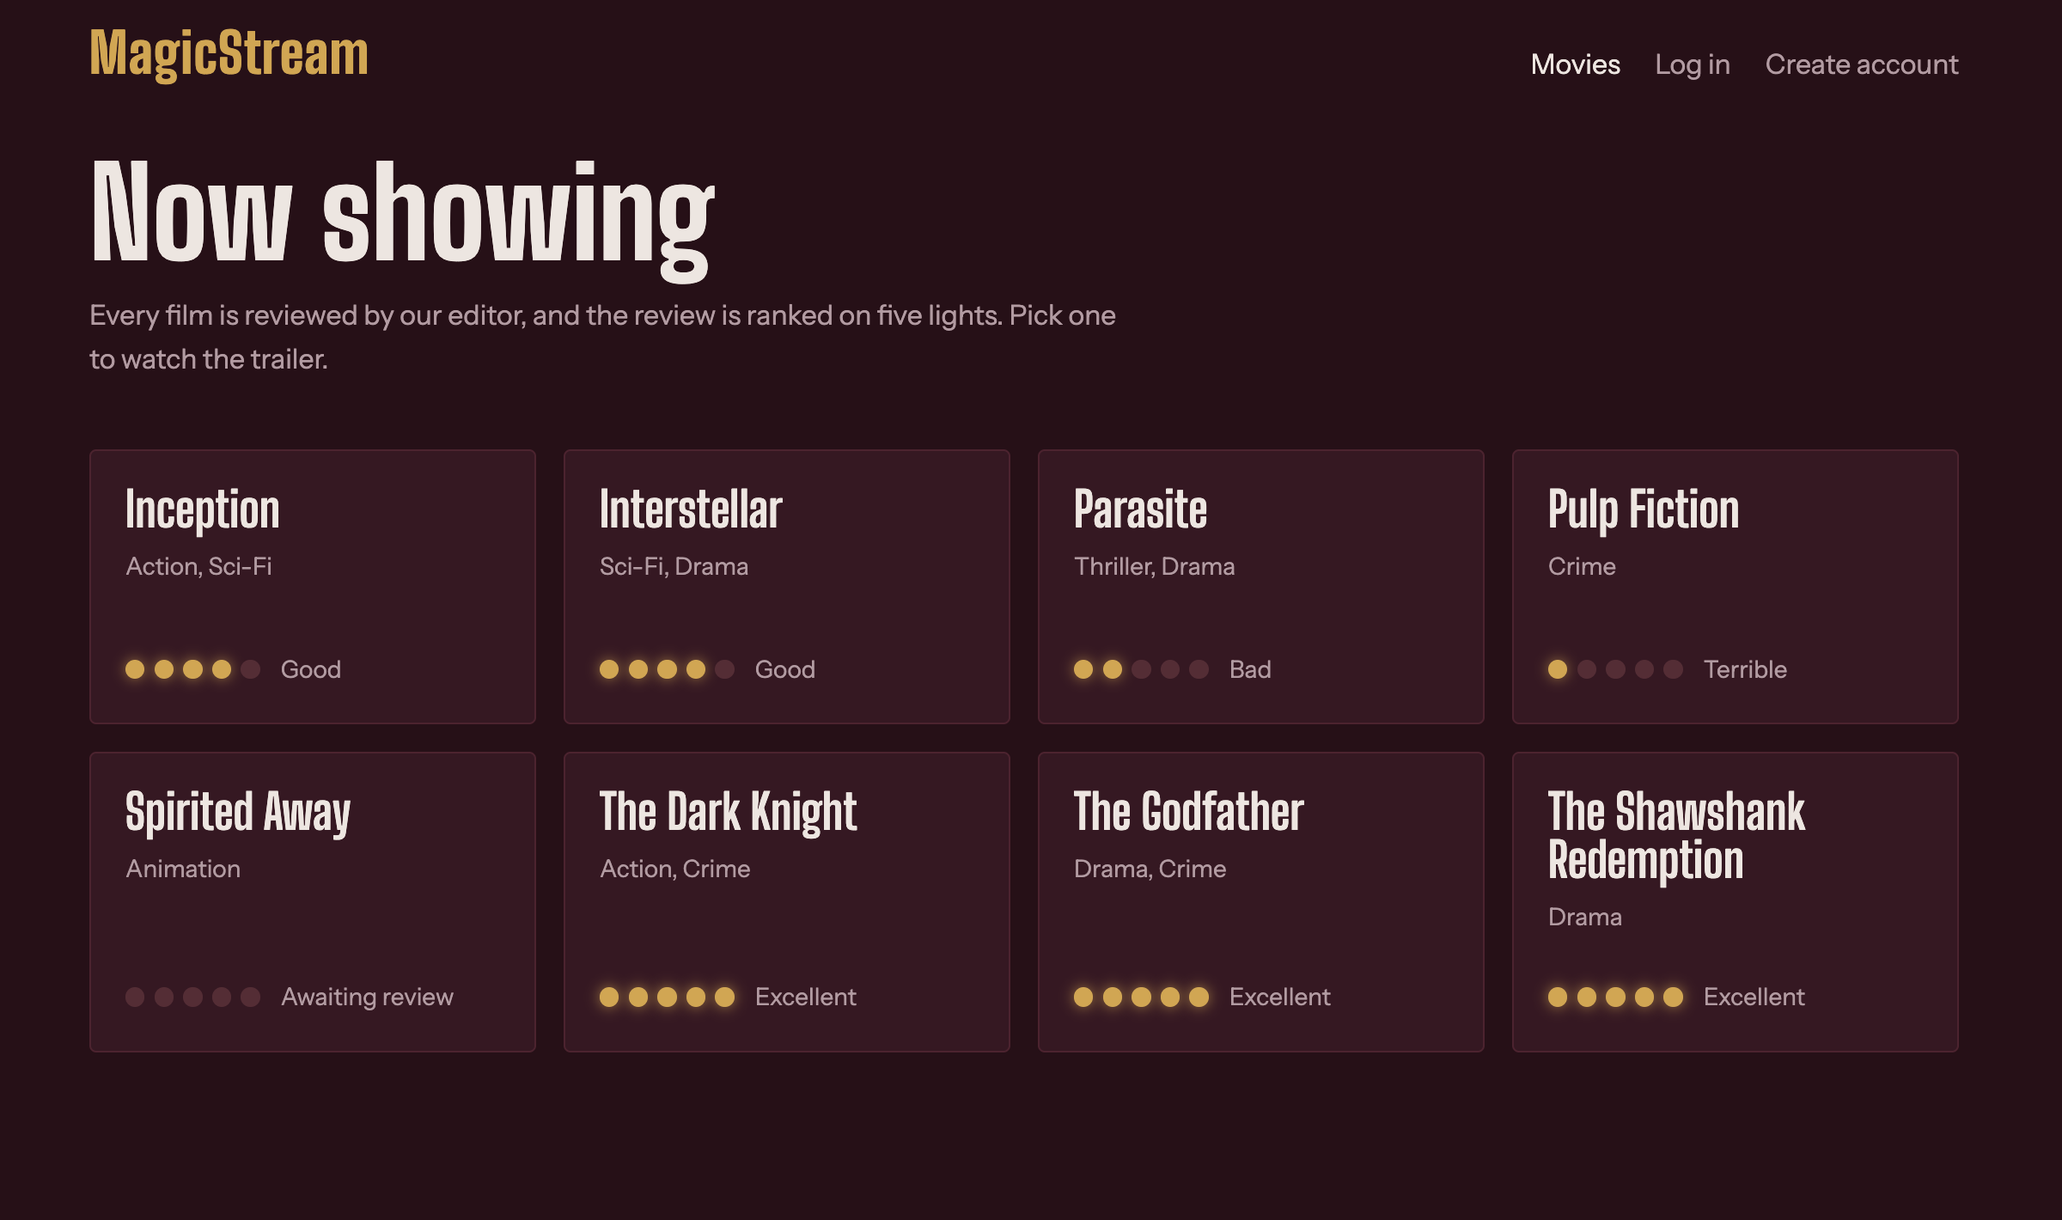
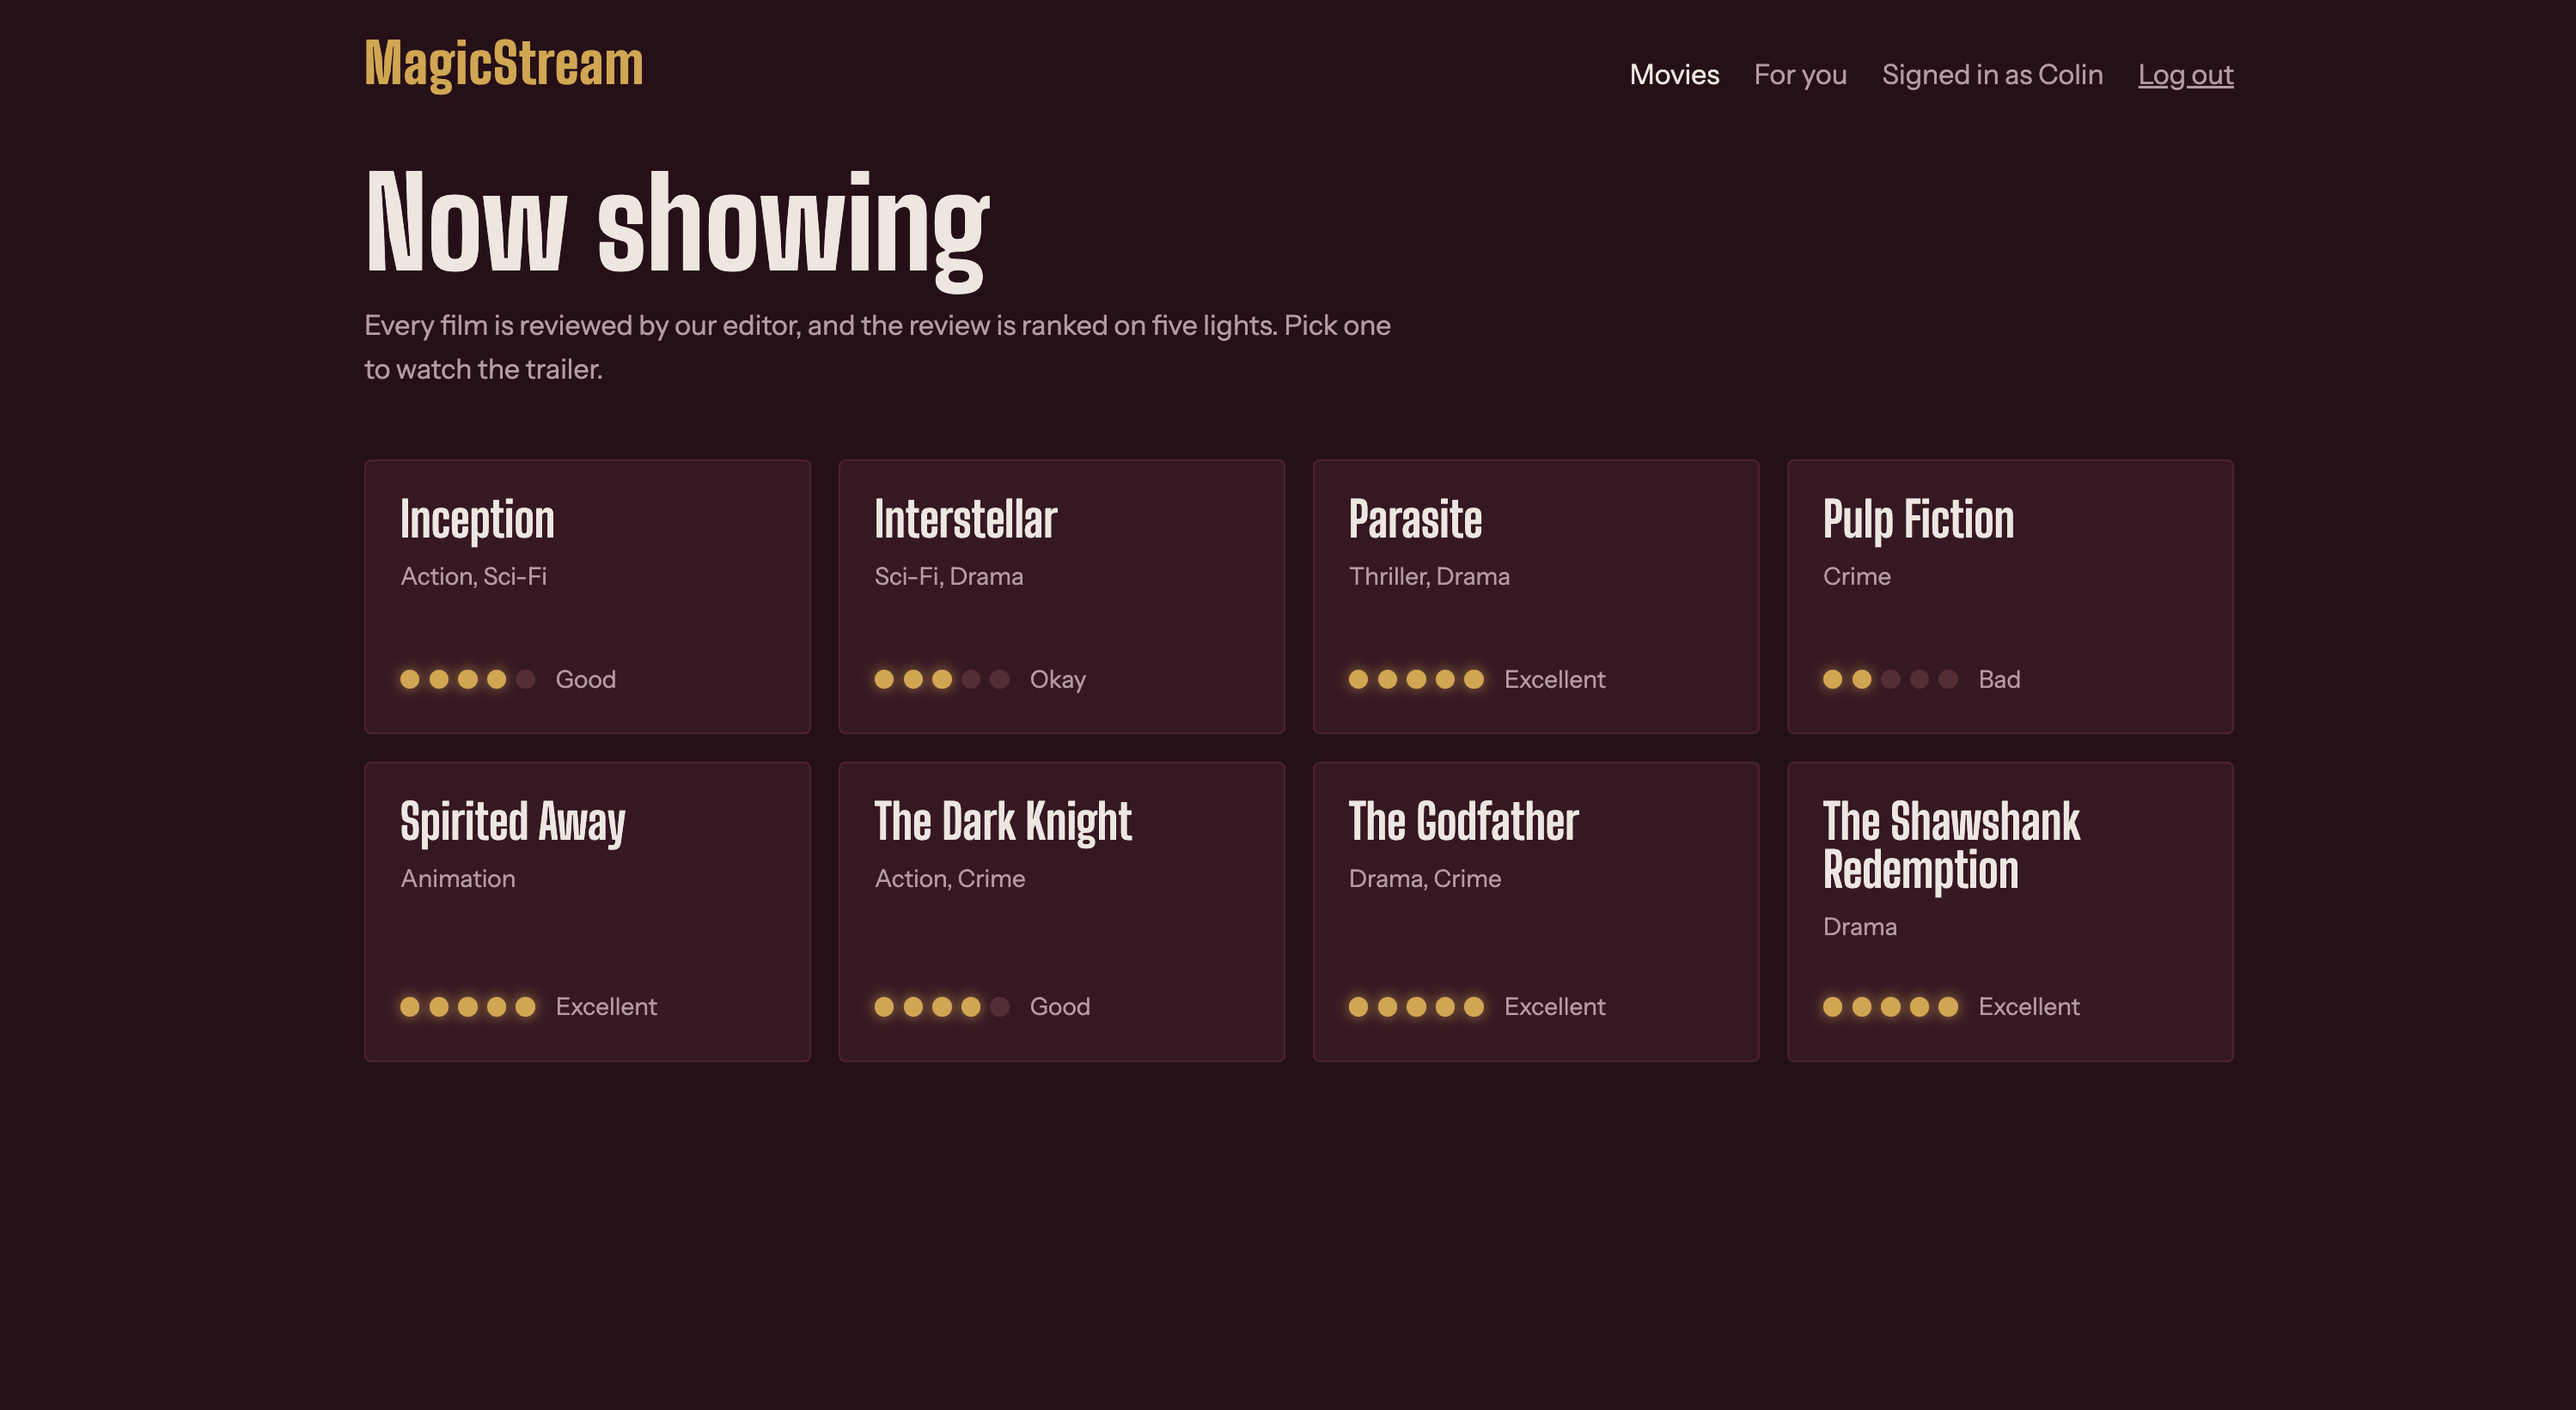
Phase 6e: production verification, deployment docs, live screenshot

diff --git a/README.md b/README.md
@@ -4,7 +4,9 @@ A full-stack movie streaming app with AI-ranked reviews and personalized recomme
 
 **Stack:** Go (Gin) · MongoDB · React · OpenAI-compatible LLM (Groq free tier) · Docker Compose
 
-> **Status:** 🚧 Feature-complete locally; deployment next. The backend is complete and tested: data layer, full authentication (registration, JWT sessions with rotation and revocation, role-based access), LLM-ranked reviews verified across two providers, and personalized recommendations backed by a verified index. The React client covers browsing, trailers, sign-in, silent session refresh, a protected recommendations page, and an admin review editor that ranks reviews with the LLM. See the [Build log](#build-log) for what's done and the [Roadmap](#roadmap) for what's next.
+**Live demo:** [magicstream-eight.vercel.app](https://magicstream-eight.vercel.app) — the API runs on a free tier that sleeps when idle, so the first load can take about a minute.
+
+> **Status:** ✅ Complete and deployed. The backend is complete and tested: data layer, full authentication (registration, JWT sessions with rotation and revocation, role-based access), LLM-ranked reviews verified across two providers, and personalized recommendations backed by a verified index. The React client covers browsing, trailers, sign-in, silent session refresh, a protected recommendations page, and an admin review editor that ranks reviews with the LLM. The app runs in production on Vercel, Render, and MongoDB Atlas. See the [Build log](#build-log) for how each piece was built and tested.
 
 ---
 
@@ -25,6 +27,7 @@ A full-stack movie streaming app with AI-ranked reviews and personalized recomme
 - [Architecture](#architecture)
 - [Getting started](#getting-started)
 - [Configuration](#configuration)
+- [Deployment](#deployment)
 - [API](#api)
 - [Project structure](#project-structure)
 - [Design decisions](#design-decisions)
@@ -139,6 +142,42 @@ All configuration is read from environment variables (`server/.env` locally; the
 
 Pin an exact model version rather than an alias like `gemini-flash-latest`, so rankings stay reproducible.
 
+## Deployment
+
+The production setup matches local development: the browser talks to a single origin, and `/api` requests are forwarded to the Go server.
+
+```
+Browser ──▶ magicstream-eight.vercel.app
+               ├── /api/*  ──rewrite──▶ Render (Go API) ──▶ MongoDB Atlas
+               └── /*      ──▶ index.html (React Router handles the path)
+```
+
+| Piece | Service | Settings |
+|---|---|---|
+| Database | MongoDB Atlas, free M0 cluster | AWS `us-east-1`; a dedicated database user with read/write access only; network access open to all IPs (see trade-offs) |
+| API | Render, free web service | Root `server`, build `go build -o app .`, start `./app`, health check `/health`, region Virginia (next to the database) |
+| Client | Vercel | Root `client`, Vite preset, Node 22 (`engines` in `package.json`), `client/vercel.json` for rewrites |
+
+**Render environment:** the nine variables from [Configuration](#configuration), with `COOKIE_SECURE=true` and production-only secrets. No `.env` file is deployed.
+
+**Loading data into Atlas.** godotenv never overrides a variable that is already set in the shell, so the same CLIs work against production by setting `MONGODB_URI` for one command. Reading it from the clipboard keeps the connection string out of shell history and avoids quoting problems with special characters in the password:
+
+```bash
+cd server
+export MONGODB_URI="$(pbpaste)"     # Atlas connection string, copied from a password manager
+go run ./cmd/seed                   # catalog
+go run ./cmd/promote -email you@example.com   # after registering on the live site
+unset MONGODB_URI
+```
+
+**Free-tier trade-offs**
+
+| Trade-off | Why it's acceptable here |
+|---|---|
+| Render spins the API down after 15 idle minutes; the next request waits about a minute | A portfolio demo, not a service with users waiting. A paid instance removes it with no code change |
+| Atlas accepts connections from any IP | Render's free tier has no fixed outbound IPs to allowlist. The connection still requires TLS and a strong, rotated password, and the user can only read and write the app's data |
+| Rankings were written fresh in production | Local reviews weren't copied over; the production admin wrote new ones, ranked by the same model |
+
 ---
 
 ## API
@@ -173,6 +212,7 @@ magicstream/
 ├── .nvmrc                    # Node version for the client (22)
 ├── client/                   # React + TypeScript (Vite)
 │   ├── vite.config.ts        # Dev proxy: /api → Go on :8080
+│   ├── vercel.json           # Production rewrites: /api → Render, everything else → index.html
 │   └── src/
 │       ├── api/
 │       │   ├── client.ts     # Single fetch wrapper: typed results, ApiError, single-flight silent refresh
@@ -441,7 +481,7 @@ Favorite genres are loaded from the database on each request (with a projection 
 The compound index `{genre.genre_id, ranking.ranking_value, title}` puts the filtered field first and the sort fields after it. Because `genre` is an array, it is a multikey index: a movie gets one entry per genre, so a user who likes two of a movie's genres finds it twice during the scan, and MongoDB removes the duplicate. `explain("executionStats")` on a two-genre query showed one `IXSCAN` per genre, merged by a `SORT_MERGE` stage with no in-memory `SORT`, and `docsExamined` equal to `nReturned` (4 of 8 documents read, all 4 returned).
 
 ### One origin in the browser: a proxy instead of CORS
-In development the React dev server runs on `:5173` and Go on `:8080`, which the browser treats as different origins. Rather than configuring CORS, Vite's dev server proxies `/api/*` to Go, so the browser only ever talks to one origin. No CORS configuration exists to get wrong, and the auth cookies remain first-party, so the `SameSite=Lax` settings from Phase 2 work unchanged. Production will use the same shape through a hosting rewrite. This is why every API route lives under `/api`: the prefix is how the proxy tells API calls from client-side pages.
+In development the React dev server runs on `:5173` and Go on `:8080`, which the browser treats as different origins. Rather than configuring CORS, Vite's dev server proxies `/api/*` to Go, so the browser only ever talks to one origin. No CORS configuration exists to get wrong, and the auth cookies remain first-party, so the `SameSite=Lax` settings from Phase 2 work unchanged. Production uses the same shape through a Vercel rewrite (see [Deployment](#deployment)). This is why every API route lives under `/api`: the prefix is how the proxy tells API calls from client-side pages.
 
 ### The frontend never handles tokens
 Requests are same-origin, so the browser attaches the http-only auth cookies automatically. No JavaScript reads, stores, or forwards a token, which keeps the XSS protection from the cookie design intact on the client side.
@@ -508,6 +548,18 @@ The server returns the updated movie, which replaces the page's state; the ranki
 
 ### Provider choice: Groq
 With ranking quality equivalent on the evaluation set, the choice came down to operations. Groq answered in well under a second; Gemini took ~2 seconds per call, hit its free-tier quota (`429`) after about seventeen quick requests, and stalled for several minutes during one session. Both remain one `.env` edit away.
+
+### Production keeps one origin, through a rewrite
+Vercel serves the React build and rewrites `/api/*` to the Render service, playing the part Vite's proxy plays in development. The browser never learns the Render address, so there's still no CORS configuration, and the auth cookies are first-party on `vercel.app`, where `SameSite=Lax` and `Secure` work as designed. A second rule sends every other path to `index.html`, so a deep link like `/movies/tt0111161` loads the app and React Router handles it, instead of returning a host 404.
+
+### No cache may store an API response, enforced in two places
+API responses depend on who is asking: `/api/me` and `/api/recommendations` differ per user. If a shared cache stored one, the next visitor could receive someone else's data. The Go server sets `Cache-Control: no-store` on the whole `/api` group, and `vercel.json` separately turns off caching for rewritten `/api` requests. Either one alone should be enough; having both means one misconfiguration doesn't leak data. `/health` is outside the group and stays cacheable.
+
+### Production has its own secrets
+The JWT secrets and database password in production were generated for production and exist only in Render's settings and a password manager, never in a `.env` file or the repository. When a secret appeared in a screenshot during setup, it was rotated rather than judged harmless. Rotating the JWT secrets has a visible, acceptable cost: every existing session ends and users log in again.
+
+### The database user can't administer the database
+The app's Atlas user has read/write access to data, not the admin role Atlas suggests by default. A leaked connection string could change data but not create users, drop permissions, or reconfigure the cluster.
 
 ---
 
@@ -931,6 +983,69 @@ Each phase is decomposed into individually tested bricks. Every brick is verifie
 | Same text after the provider recovers | Saved on the next click; ranked Good | ✅ |
 | Empty review | `0 / 2000`; save disabled | ✅ |
 
+### Phase 6a — Production readiness ✅
+
+- `Cache-Control: no-store` middleware on the `/api` route group
+- Node pinned to 22 (`engines` in `package.json` and `.nvmrc`) so the host builds with the same version
+- Production build: 86 kB of gzipped JavaScript
+
+| Test | Expected | Result |
+|---|---|---|
+| `GET /api/movies` | `cache-control: no-store` | ✅ |
+| `GET /health` | No `cache-control` header (outside the group) | ✅ |
+| `npm run build` | Clean type-check and build | ✅ |
+
+`curl -I` sends a `HEAD` request, which Gin doesn't route to `GET` handlers, so it returned `404` with no header. Headers were checked with `curl -s -D - -o /dev/null` instead.
+
+### Phase 6b — MongoDB Atlas ✅
+
+- Free M0 cluster in AWS `us-east-1`, created under a personal organization (the university organization didn't offer the free tier)
+- Database user with read/write access; password rotated after it appeared in a screenshot
+- Catalog seeded by pointing the seed CLI at Atlas with a shell variable
+
+| Test | Expected | Result |
+|---|---|---|
+| Seed against Atlas | `8 inserted` | ✅ |
+| Promote with wrong credentials in the connection string | `bad auth: authentication failed`: the network, DNS and TLS all worked, only the credentials were wrong | ✅ |
+| Promote with the working connection string | `… is now ADMIN`, effective at next login | ✅ |
+
+### Phase 6c — API on Render ✅
+
+- Free web service, root `server`, health check `/health`, nine environment variables, `COOKIE_SECURE=true`
+- JWT secrets generated for production only, and rotated after setup
+
+| Test | Expected | Result |
+|---|---|---|
+| `GET /health` | `{"database":"ok","status":"ok"}` from Atlas | ✅ |
+| `GET /api/movies` | 8 movies | ✅ |
+| Response headers | `cache-control: no-store` | ✅ |
+
+### Phase 6d — Client on Vercel ✅
+
+- Single project with root `client`, Vite preset
+- `vercel.json`: `/api/*` rewritten to Render, every other path to `index.html`, rewrite caching disabled for `/api`
+
+| Test | Expected | Result |
+|---|---|---|
+| Home page | 8 movies, all "Awaiting review" (production has no reviews yet) | ✅ |
+| `GET https://magicstream-eight.vercel.app/api/movies` | JSON from Render through the rewrite | ✅ |
+
+### Phase 6e — Production verification ✅
+
+| Test | Expected | Result |
+|---|---|---|
+| Request URL of `movies` in the Network tab | `https://magicstream-eight.vercel.app/api/movies`: same origin, no CORS | ✅ |
+| Response headers | `Cache-Control: no-store` | ✅ |
+| `access_token` cookie | `HttpOnly`, `Secure`, `SameSite=Lax`, Path `/`, on `magicstream-eight.vercel.app` | ✅ |
+| `refresh_token` cookie | `HttpOnly`, `Secure`, `SameSite=Lax`, Path `/api/auth` | ✅ |
+| Hard reload on `/movies/tt0111161` | Page renders; no host 404 | ✅ |
+| Admin writes eight reviews in production, each written to aim at a ranking | All eight ranked as intended: Godfather, Parasite, Shawshank, Spirited Away Excellent; Dark Knight, Inception Good; Interstellar Okay; Pulp Fiction Bad | ✅ |
+| "For you" for a Thriller-only account, Parasite unreviewed | Empty state; `/api/recommendations` returns `[]` | ✅ |
+| `/recommendations` in a private window | Redirected to `/login` | ✅ |
+| Console on first load while signed out | `401` from `/api/me`, then `401` from `/api/auth/refresh`: the expected "not signed in" check, handled by the app | ✅ |
+
+The only other console error is a `404` for a `maxresdefault.webp` thumbnail requested by YouTube's player inside the trailer iframe; it comes from YouTube, not the app.
+
 ---
 
 ## Roadmap
@@ -943,10 +1058,6 @@ Each phase is decomposed into individually tested bricks. Every brick is verifie
 | 3 | Admin review → LLM ranking, with strict output validation and retry on rate limits | ✅ |
 | 4 | Recommendations by favorite genres, sorted by ranking | ✅ |
 | 5 | React client: browse, auth, trailer player, recommendations, admin review form | ✅ |
-| 6 | Deploy: MongoDB Atlas, API on Render, client on Vercel | ⬜ |
+| 6 | Deploy: MongoDB Atlas, API on Render, client on Vercel | ✅ |
 
 ---
-
-## Author
-
-**Colin Emmanuel** · [GitHub](https://github.com/Colin-J-Emmanuel)
